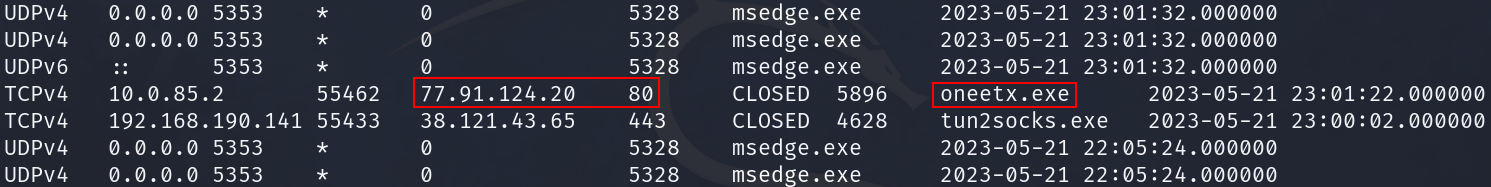
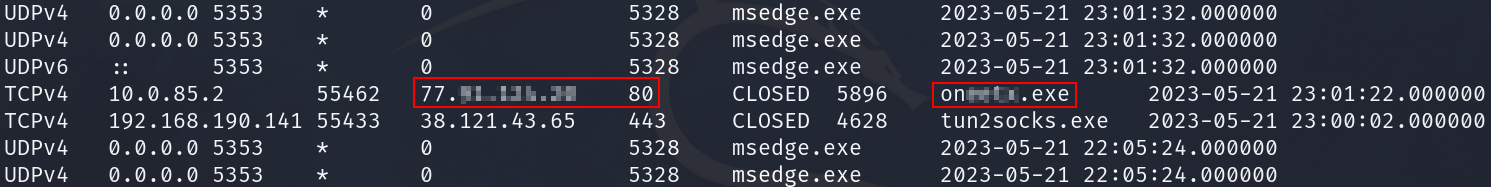
redline fix

Changed region(s): [[0.3085, 0.4545, 0.4011, 0.5615], [0.6479, 0.4545, 0.7096, 0.5615]]

diff --git a/_posts/2023-09-27-RedLine.md b/_posts/2023-09-27-RedLine.md
@@ -7,6 +7,9 @@ img_path: /assets/CDRESOURCES/REDLINE/
 image: RedLine.jpg
 ---
 
+> Este es un reto de la plataforma de entrenamiento para Blue Team, [CyberDefenders](cyberdefenders.org).
+{: .prompt-tip}
+
 ## Escenario
 Como miembro del equipo de seguridad Blue Team, su tarea consiste en analizar un volcado de memoria utilizando la herramienta **Volatility**. Su objetivo es rastrear los pasos dados por el atacante en la máquina comprometida y determinar cómo se las arregló para eludir el **Sistema de Detección de Intrusiones de Red "NIDS"**. Su investigación incluirá la identificación de la familia específica de malware empleada en el ataque, junto con sus características. Además, su tarea consistirá en identificar y mitigar cualquier rastro o huella dejada por el atacante.
 
@@ -35,7 +38,7 @@ vol.py -f MemoryDump.mem windows.pslist
 ```
 ![](Pasted image 20230926182820.png)
 
-Listando los procesos existentes en el volcado de memoria se puede ver el proceso sospechoso **oneetx.exe** corriendo con el PID **5896**.
+Listando los procesos existentes en el volcado de memoria se puede ver el proceso sospechoso **on\*\*\*\*.exe** corriendo con el PID **5896**.
 
 ### P2 - ¿Cuál es el nombre del proceso hijo del proceso sospechoso?
 ```bash
@@ -44,7 +47,7 @@ vol.py -f MemoryDump.mem windows.pstree --pid=5896
 ```
 ![](Pasted image 20230926190416.png)
 
-Listando el nombre de los hijos de los procesos existentes vemos que el proceso **rundll32.exe** está corriendo como hijo de **oneetx.exe**.
+Listando el nombre de los hijos de los procesos existentes vemos que el proceso **ru\*\*\*\***.exe** está corriendo como hijo de **on\*\*\*\*.exe**.
 
 ### P3 - ¿Qué protección de memoria se aplica a la región de memoria del proceso sospechoso?
 ```bash
@@ -53,7 +56,7 @@ vol.py -f MemoryDump.mem windows.malfind --pid=5896
 ```
 ![](Pasted image 20230926191806.png)
 
-Analizando el proceso de memoria con el **PID** correspondiente al proceso **oneetx.exe**, vemos que tiene una protección de memoria asignada como *PAGE_EXECUTE_READWRITE*, lo que permite que el código se ejecute, se lea y se modifique.
+Analizando el proceso de memoria con el **PID** correspondiente al proceso **on\*\*\*\*.exe**, vemos que tiene una protección de memoria asignada como *PA\*\*_EX\*\*\*\*\*_RE\*\*\*\*\*\*\**, lo que permite que el código se ejecute, se lea y se modifique.
 
 ### P4 - ¿Cuál es el nombre del proceso responsable de la conexión VPN?
 ```bash
@@ -62,7 +65,7 @@ vol.py -f MemoryDump.mem windows.pslist
 ```
 ![](Pasted image 20230926193222.png)
 
-Si miramos los procesos activos corriendo, podemos ver **outline.exe** que corresponde a la aplicación responsable de la conexión VPN del dispositivo.
+Si miramos los procesos activos corriendo, podemos ver **ou\*\*\*\*\*.exe** que corresponde a la aplicación responsable de la conexión VPN del dispositivo.
 
 ### P5 - ¿Cuál es la IP del atacante?
 ```bash
@@ -71,15 +74,15 @@ vol.py -f MemoryDump.mem windows.netscan
 ```
 ![](Pasted image 20230927161744.png)
 
-Listando las conexiones abiertas en la máquina podemos ver que **oneetx.exe** realizó una conexión TCP hacia la IP **77.91.124.20** por el puerto **80**, en la fecha **21/05/2023** a las **23:01:22** hrs.
+Listando las conexiones abiertas en la máquina podemos ver que **on\*\*\*\*.exe** realizó una conexión TCP hacia la IP **77.\*\*.\*\*\*.\*\*** por el puerto **80**, en la fecha **21/05/2023** a las **23:01:22** hrs.
 
-### P7 - Basándonos en los artefactos anteriores. ¿Cuál es el nombre de la familia de malware?
+### P6 - Basándonos en los artefactos anteriores. ¿Cuál es el nombre de la familia de malware?
 ```bash
-strings MemoryDump.mem | grep -i "redline"
+strings MemoryDump.mem | grep -i <CHALLENGE NAME>
 ```
 ![](Pasted image 20230927163727.png)
 
-Usando el propio nombre del reto como pista, si buscamos por strings en la memoria que contengan la palabra `redline`, nos encontramos con el nombre de la familia de malware **Redline Stealer**.
+Usando el propio nombre del reto como pista, si buscamos por strings en la memoria, nos encontramos con el nombre de la familia de malware **Redline Stealer**.
 
 ### Info - ¿Qué es Redline Stealer?
 
@@ -94,22 +97,22 @@ Como su nombre lo indica (_steal_ es robar en inglés), **Redline Stealer** se d
 fuente: [https://www.csirt.gob.cl/noticias/alerta-de-seguridad-cibernetica-redline/](https://www.csirt.gob.cl/noticias/alerta-de-seguridad-cibernetica-redline/)
 
 
-### P8 - ¿Cuál es la URL completa del archivo PHP que visitó el atacante?
+### P7 - ¿Cuál es la URL completa del archivo PHP que visitó el atacante?
 ```bash
-strings MemoryDump.mem | grep "77.91.124.20"
+strings MemoryDump.mem | grep <ATTACKER IP>
 ```
 ![](Pasted image 20230927171920.png)
 
-Buscando por la dirección IP del atacante como string dentro del volcado de memoria, podemos ver que ingresó a la URL `http://77.91.124.20/store/games/index.php`
+Buscando por la **dirección IP** del atacante como string dentro del volcado de memoria, podemos ver que ingresó a la URL `http://77.**.***.**/*****/*****/index.php`
 
-### P9 - ¿Cuál es la ruta completa del ejecutable malicioso?
+### P8 - ¿Cuál es la ruta completa del ejecutable malicioso?
 ```bash
 # Usa el plugin windows.filescan para ver la ruta completa de un archivo.
-vol.py -f MemoryDump.mem windows.filescan | grep "oneetx.exe"
+vol.py -f MemoryDump.mem windows.filescan | grep "on****.exe"
 ```
 ![](Pasted image 20230927173518.png)
 
-Mediante el plugin `windows.filescan` podemos ver la ruta completa del archivo malicioso **oneetx.exe** que reside en **C:\Users\Tammam\AppData\Local\Temp\c3912af058\oneetx.exe**.
+Mediante el plugin `windows.filescan` podemos ver la ruta completa del archivo malicioso **on\*\*\*\*.exe**.
 
 ## Como protegerse
 > Algunas medidas de protección contra este tipo de malware podrian ser:

diff --git a/_posts/2023-09-30-GrabThePhisher.md b/_posts/2023-09-30-GrabThePhisher.md
@@ -7,6 +7,9 @@ img_path: /assets/CDRESOURCES/GRABTHEPHISHER/
 image: GrabThePhisher.jpg
 ---
 
+> Este es un reto de la plataforma de entrenamiento para Blue Team, [CyberDefenders](cyberdefenders.org).
+{: .prompt-tip}
+
 ## Escenario
 Un atacante comprometió un servidor y se hizo pasar por [https://pancakeswap.finance/](https://pancakeswap.finance/), un exchange descentralizado nativo de la cadena BNB, para alojar un **kit de phishing** en **https://apankewk.soup.xyz/mainpage.php**. El atacante lo configuró como un directorio abierto con el nombre de archivo **"pankewk.zip"**. 
 
